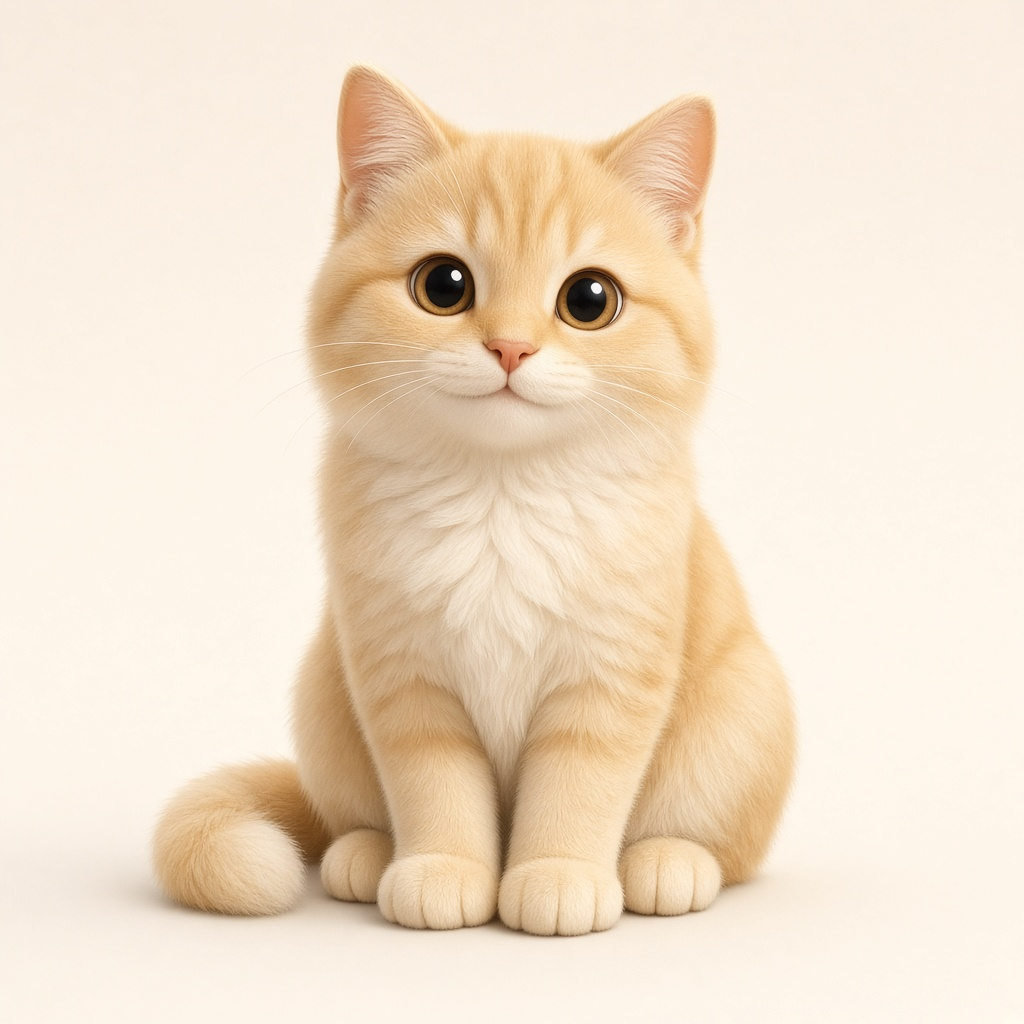
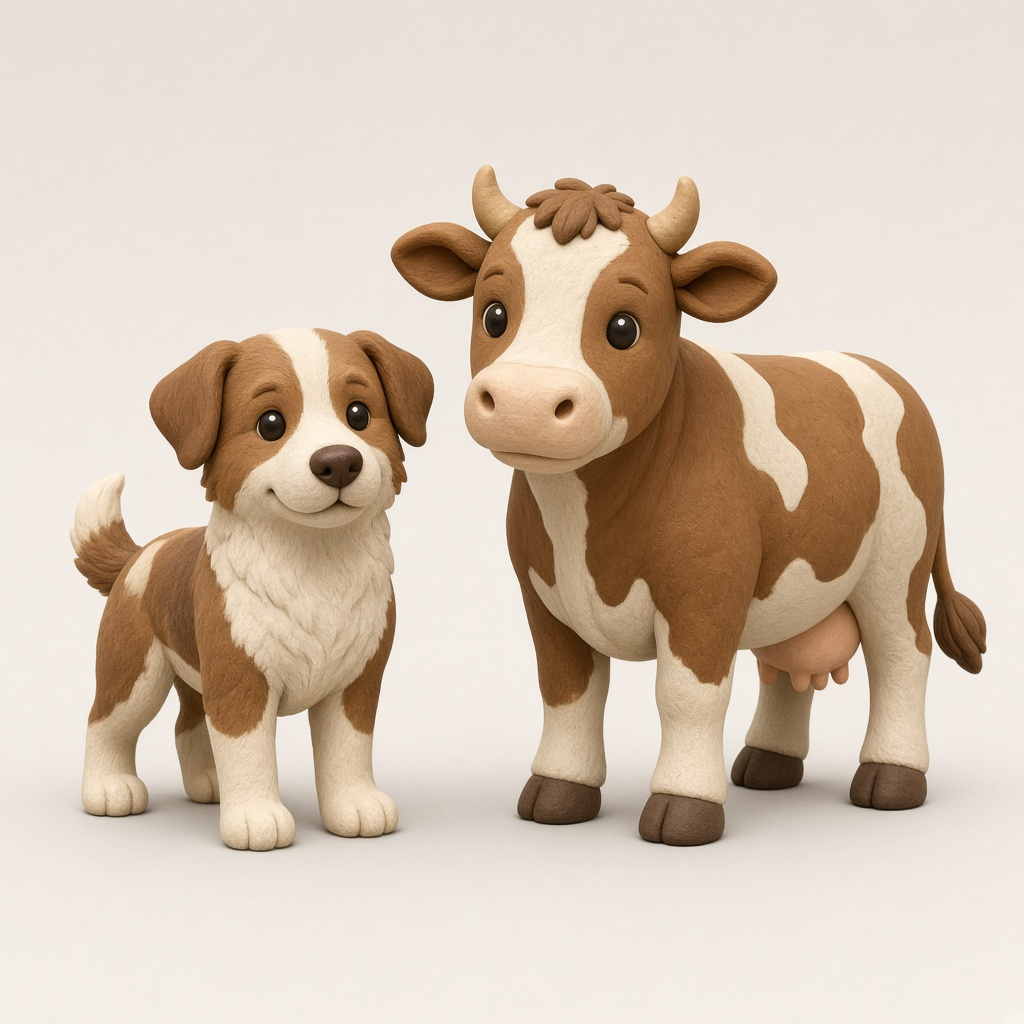
Tighten section tiles: smaller, volumetric, art fully inside.
Labels sit on top, drawings stay within the card. Replace the cottage
with a modern house and the kitten with a dog and cow for Животные.

diff --git a/src/app/page.tsx b/src/app/page.tsx
@@ -78,7 +78,7 @@ export default function FeedPage() {
           <h2 className="font-display text-[19px] font-bold tracking-[-0.01em] text-ink">{t.sections}</h2>
           <span className="text-[13px] font-semibold text-muted">{t.nSections}</span>
         </div>
-        <div className="mt-3 grid grid-cols-2 gap-2">
+        <div className="mt-3 grid grid-cols-3 gap-2.5">
           {SECTIONS.map((s) => (
             <button
               key={s.id}
@@ -87,15 +87,15 @@ export default function FeedPage() {
                 setFilters(patchForSection(s.id, filters));
                 router.push(`/section/${s.id}`);
               }}
-              className="relative h-[112px] overflow-hidden rounded-[18px] border border-line bg-surface text-left"
+              className="section-tile flex h-[110px] flex-col items-center overflow-hidden rounded-[16px] px-1.5 pb-2 pt-1.5 text-center"
             >
-              <span className="relative z-[1] block max-w-[58%] px-3 pt-2.5 text-[13px] font-semibold leading-[1.25] text-ink">
+              <span className="line-clamp-3 min-h-[34px] w-full text-[11px] font-semibold leading-[1.2] text-ink">
                 {t.sectionNames[s.id]}
               </span>
               <img
                 src={s.art}
                 alt=""
-                className="pointer-events-none absolute -bottom-3 -right-2 h-[92px] w-[92px] object-contain"
+                className="mt-auto h-[48px] w-[48px] shrink-0 object-contain"
               />
             </button>
           ))}

diff --git a/src/lib/data.ts b/src/lib/data.ts
@@ -15,14 +15,14 @@ export const CITIES = [
 ] as const;
 
 export const SECTIONS: { id: SectionId; icon: string; art: string }[] = [
-  { id: "rent", icon: "home", art: "/sections/rent.png" },
+  { id: "rent", icon: "home", art: "/sections/rent.png?v=2" },
   { id: "secondhand", icon: "bag", art: "/sections/secondhand.png" },
   { id: "cars", icon: "car", art: "/sections/cars.png" },
   { id: "stays", icon: "hotel", art: "/sections/stays.png" },
   { id: "services", icon: "pen", art: "/sections/services.png" },
   { id: "vacancies", icon: "briefcase", art: "/sections/vacancies.png" },
   { id: "construction", icon: "blocks", art: "/sections/construction.png" },
-  { id: "animals", icon: "animal", art: "/sections/animals.png" },
+  { id: "animals", icon: "animal", art: "/sections/animals.png?v=2" },
 ];
 
 export const CATEGORIES = [

diff --git a/src/app/globals.css b/src/app/globals.css
@@ -72,6 +72,25 @@ button {
   box-shadow: 0 8px 18px rgba(184, 69, 47, 0.35);
 }
 
+.section-tile {
+  background: linear-gradient(180deg, #ffffff 0%, #f3eee4 100%);
+  border: 1px solid #efe8db;
+  box-shadow:
+    inset 0 1px 0 rgba(255, 255, 255, 0.95),
+    0 1px 0 #e4dcce,
+    0 6px 0 #d8ccba,
+    0 10px 16px rgba(23, 20, 15, 0.12);
+}
+
+.section-tile:active {
+  transform: translateY(3px);
+  box-shadow:
+    inset 0 1px 0 rgba(255, 255, 255, 0.95),
+    0 1px 0 #e4dcce,
+    0 3px 0 #d8ccba,
+    0 4px 8px rgba(23, 20, 15, 0.1);
+}
+
 .leaflet-container {
   font-family: inherit;
   background: #dce6d8;
